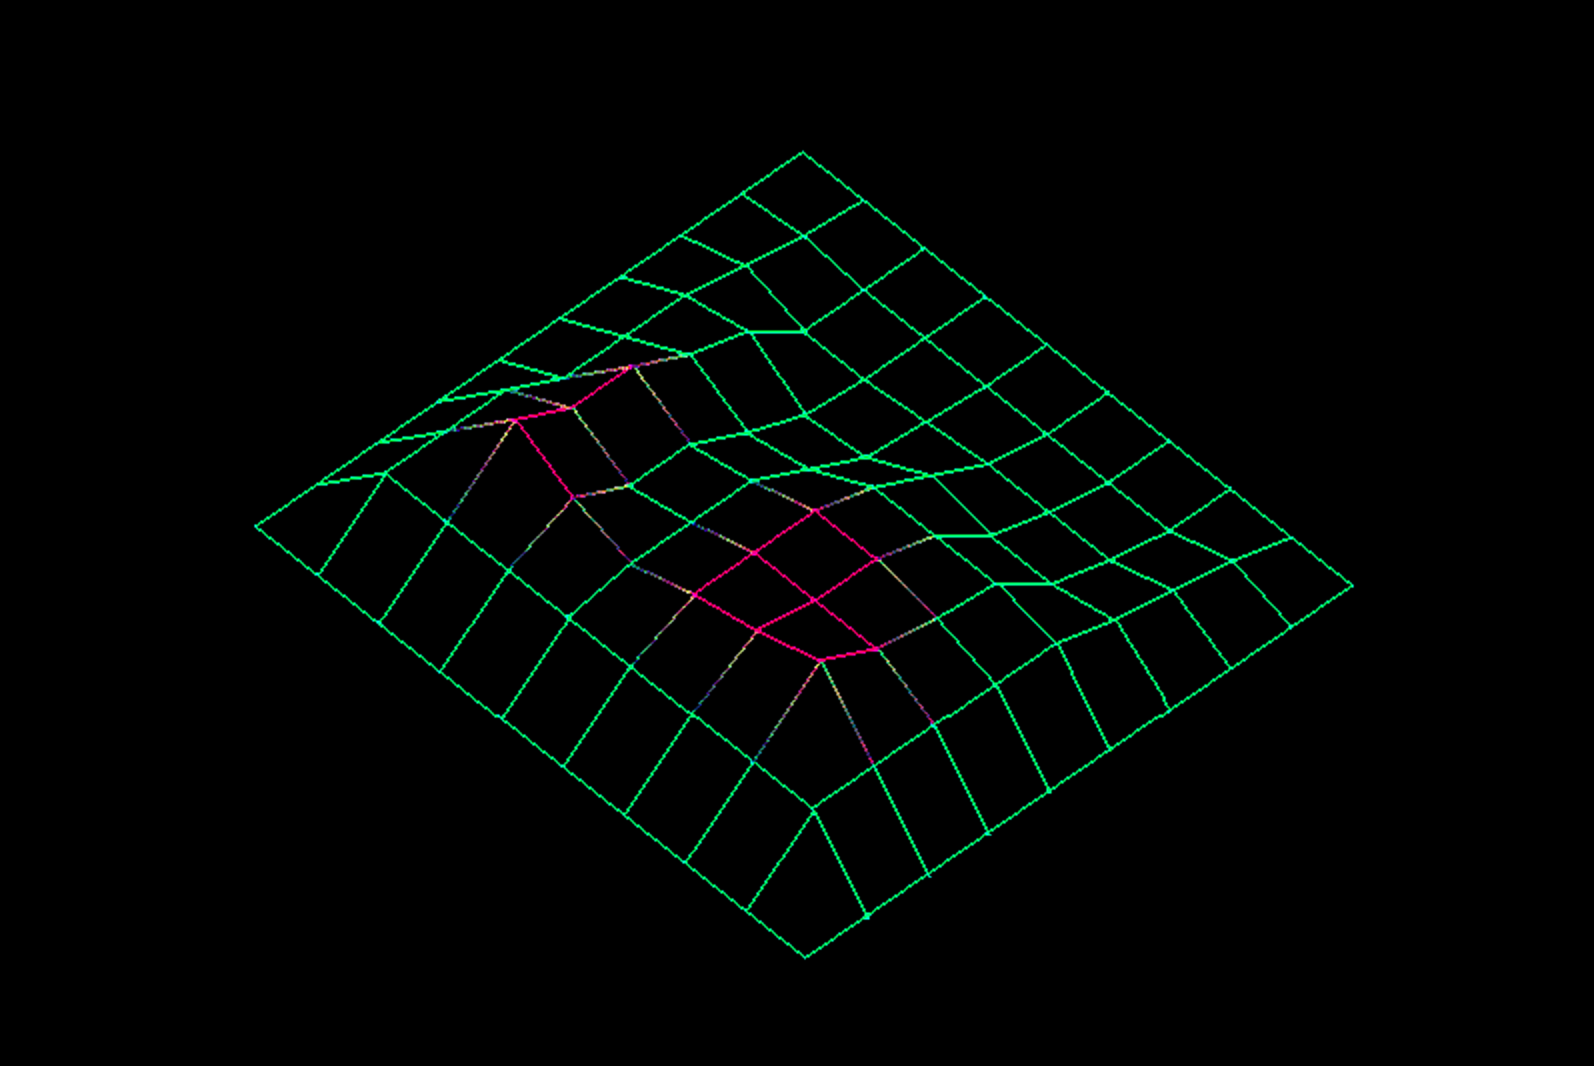
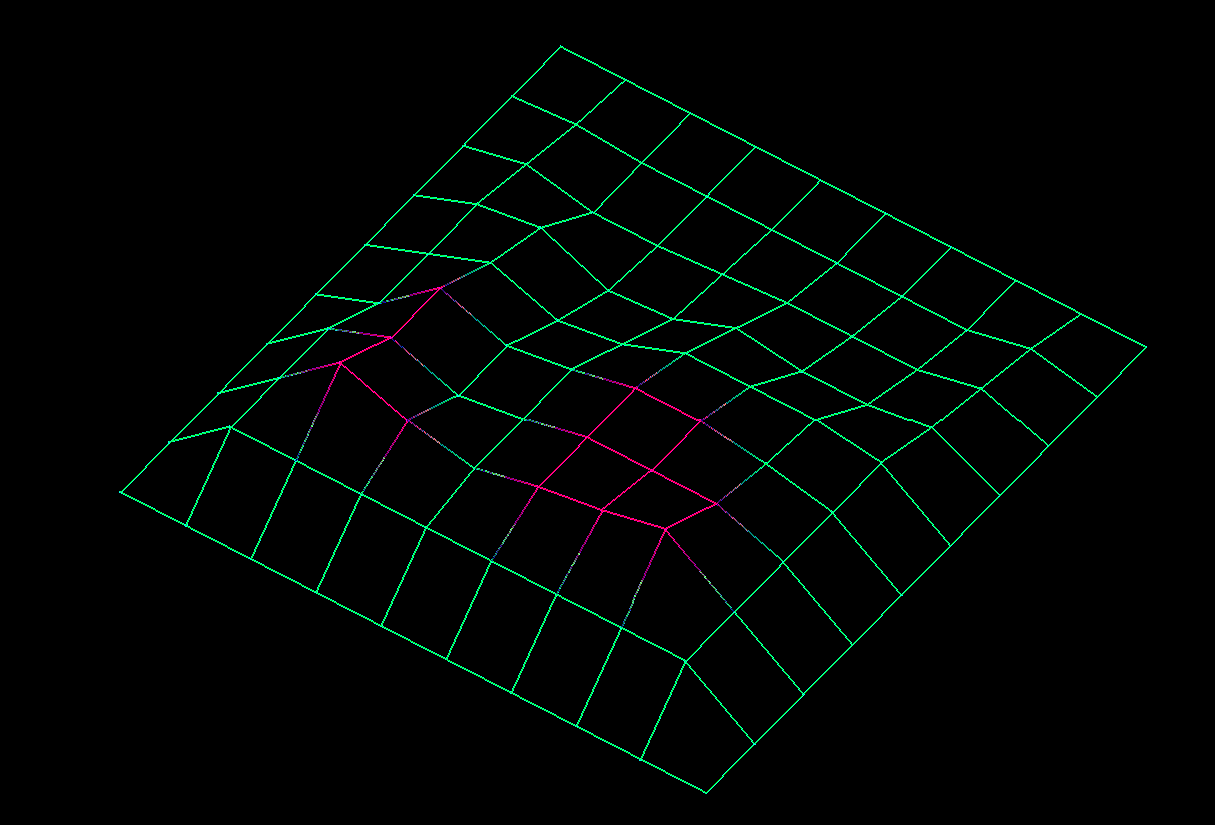
Fix color linear interpolation bug due to Xiaolin Wu's algorithm point swapping.

diff --git a/srcs/fdf_draw/fdf_draw_line.c b/srcs/fdf_draw/fdf_draw_line.c
@@ -42,6 +42,7 @@ static void	init_draw_line(t_draw_line *info, t_point *a, t_point *b)
 	{
 		ft_swap(&info->x0, &info->x1);
 		ft_swap(&info->y0, &info->y1);
+		ft_swap((double *)&info->color0, (double *)&info->color1);
 	}
 	info->dx = info->x1 - info->x0;
 	info->dy = info->y1 - info->y0;

diff --git a/README.md b/README.md
@@ -97,8 +97,7 @@ which yields
 
 Special TODOs for the future:
 1. Reset button back to the original starting projection.
-2. Fix color linear interpolation bug due to Xiaolin Wu's algorithm point swapping.
-3. Implement HSV color interpolation instead of the current RGB.
-4. Create some mouse hooks especially scrolling.
-5. Implement rotations on x and y axis or other axis planes.
-6. Implement a function to change the default color in the program.
+2. Implement HSV color interpolation instead of the current RGB.
+3. Create some mouse hooks especially scrolling.
+4. Implement rotations on x and y axis or other axis planes.
+5. Implement a function to change the default color in the program.
